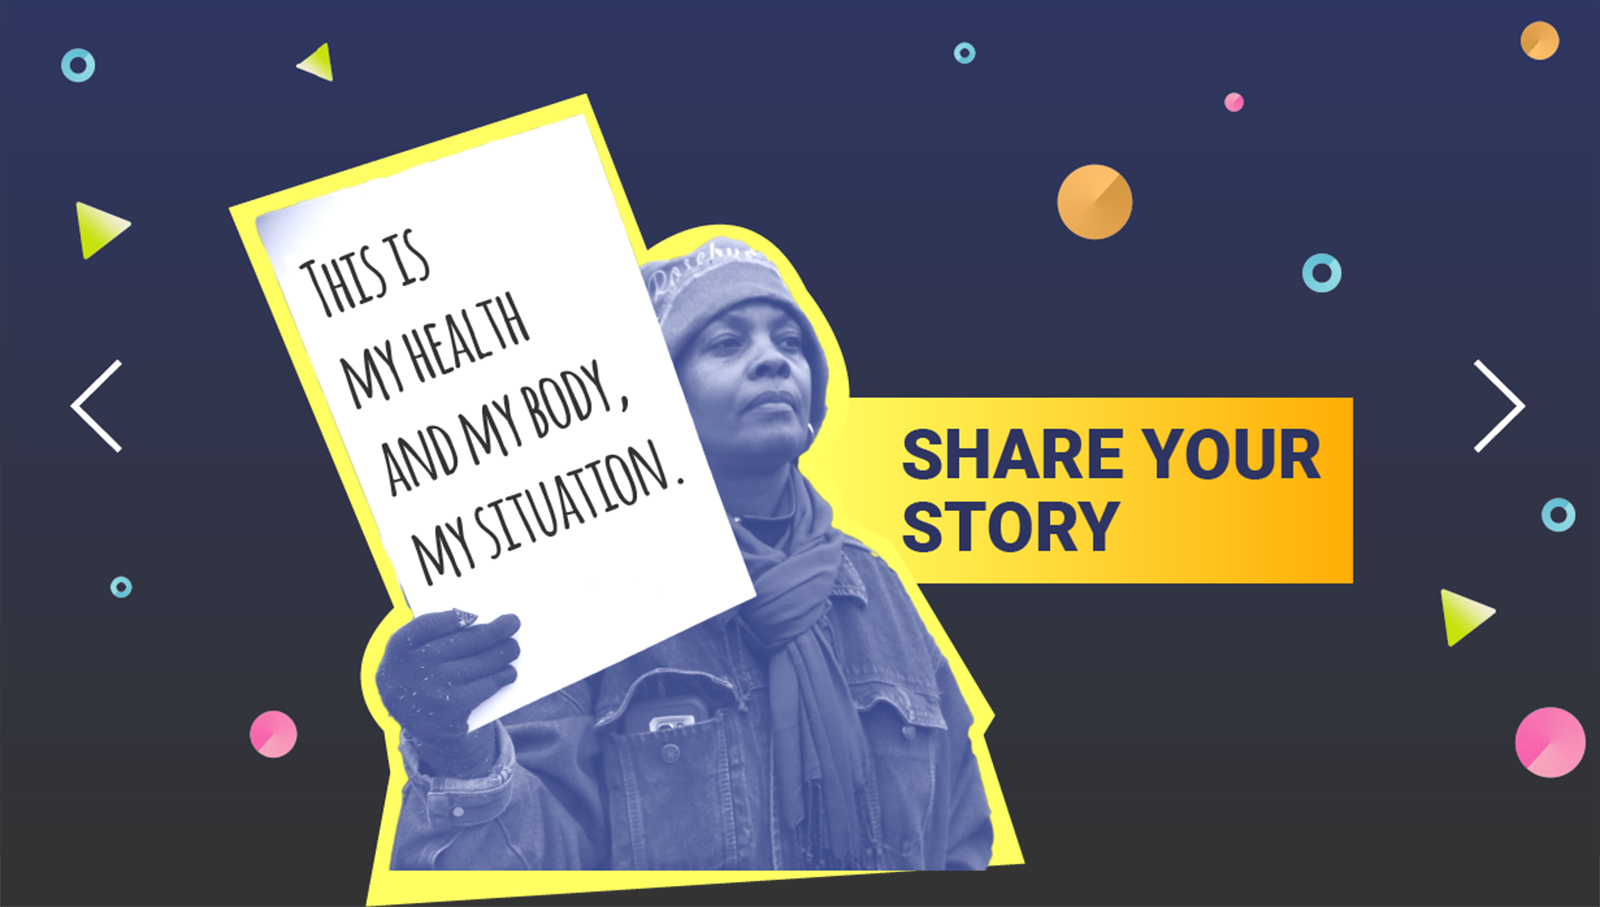
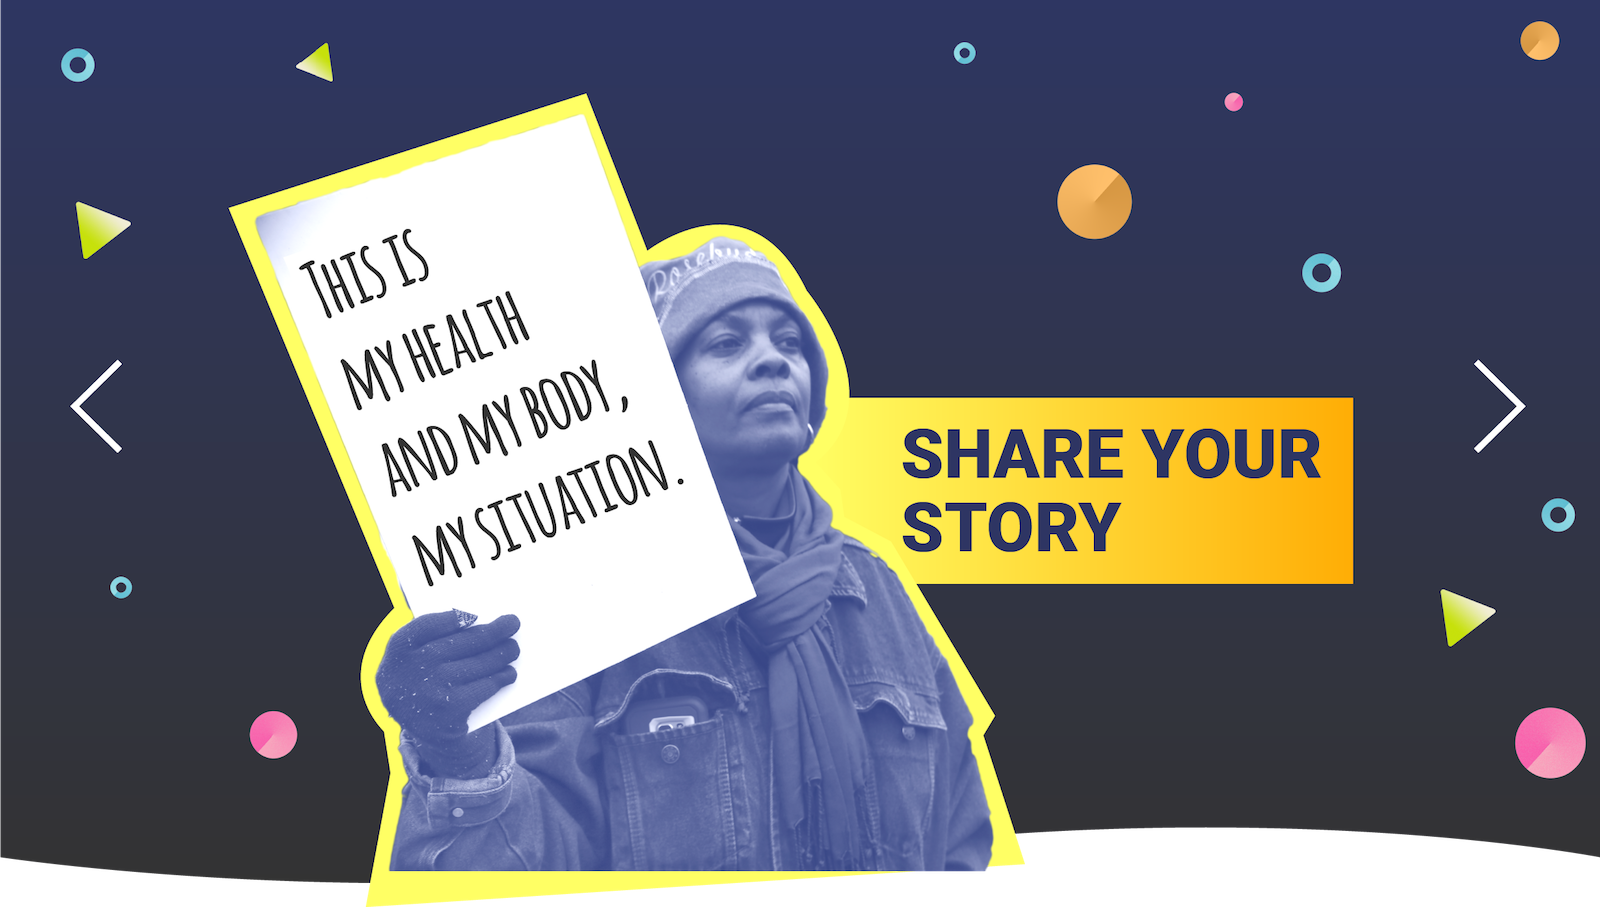
VOC hero, nav and overview tweaks

diff --git a/fe-scaffold/app/scss/sections/_hero.scss b/fe-scaffold/app/scss/sections/_hero.scss
@@ -72,7 +72,8 @@ $nav-height-lg: 80px;
 
   &.voc {
     background-image: image("particles/hero-voc.png"), $gradient-voc-linear-blue;
-    padding-bottom: 20em;
+    background-size: auto 100%;
+    padding-bottom: 28em;
   }
 
   .home & {
@@ -81,6 +82,10 @@ $nav-height-lg: 80px;
 
   @include responsive-mq(lg) {
     background-size: auto, auto;
+
+    &.voc {
+      background-size: auto 100%;
+    }
 
   }
 

diff --git a/fe-scaffold/app/scss/modules/_variables.scss b/fe-scaffold/app/scss/modules/_variables.scss
@@ -33,7 +33,7 @@ $colors: (
   cream-overlay:  #f1dccd,
   peach-overlay: #f1c1b3,
 
-  voc-blue-lt: #2e3563,
+  voc-blue-lt: #2e3662,
   voc-blue-dk: #333334,
   voc-curve-grey: #f2f2f2,
   voc-blue: #0080c4

diff --git a/fe-scaffold/app/scss/sections/_nav.scss b/fe-scaffold/app/scss/sections/_nav.scss
@@ -1,5 +1,6 @@
 $nav-breakpoint: 1120px; // slightly larger than a landscape ipad and the space we need to fit things neatly
 
+// sass-lint:disable no-ids
 #wpadminbar {
   position: fixed;
 }

diff --git a/fe-scaffold/app/scss/sections/_overview.scss b/fe-scaffold/app/scss/sections/_overview.scss
@@ -7,6 +7,7 @@
 
       color: color(voc-blue);
       font-weight: $bold;
+      letter-spacing: 0.2em;
     }
   }
 }
